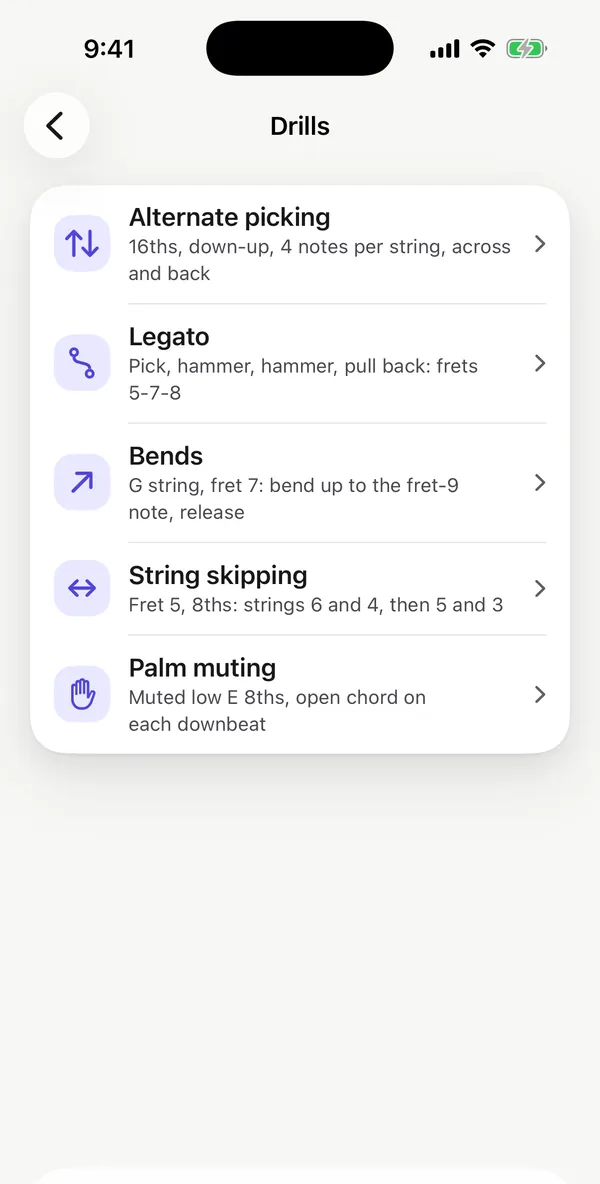
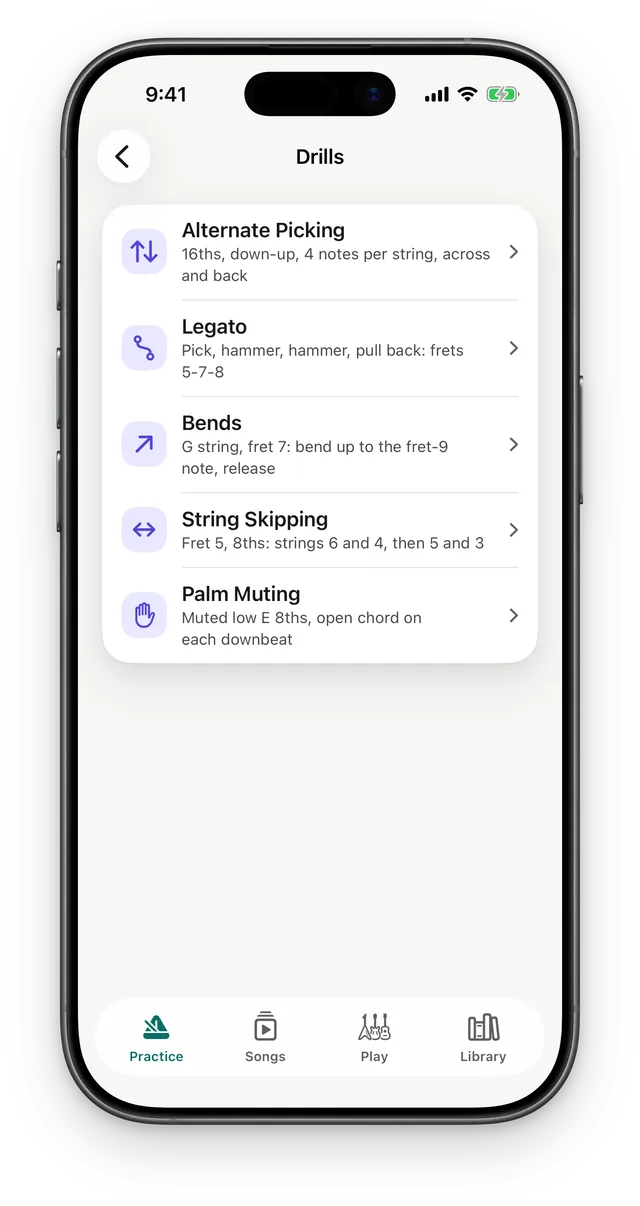
Screenshots in a real iPhone frame: fresh captures, bezel and shadow baked in
The shots now come from gtr-tone-app's tools/site-shots.sh (headless simulator capture plus
Apple's iPhone 17 bezel), 640w and 1280w WebP with srcset. Drops the CSS phone frame and
fade, How Match works shows the Katana 50 result, alt texts match the new screens, and
make-assets.py keeps only the brand images.

Claude-Session: https://claude.ai/code/session_018UT3pei8Wwk52w3BySMxhU

Changed region(s): [[0.06, 0.0, 0.93, 0.9688], [0.18, 0.125, 0.21, 0.1562]]

diff --git a/index.html b/index.html
@@ -24,7 +24,7 @@
 <link rel="preconnect" href="https://fonts.googleapis.com">
 <link rel="preconnect" href="https://fonts.gstatic.com" crossorigin>
 <link rel="stylesheet" href="https://fonts.googleapis.com/css2?family=Nunito:wght@700;800&display=swap">
-<link rel="stylesheet" href="assets/site.css?v=42f964b2">
+<link rel="stylesheet" href="assets/site.css?v=3058e590">
 <script type="application/ld+json">
 {"@context":"https://schema.org","@type":"SoftwareApplication","name":"ToneHub","operatingSystem":"iOS","applicationCategory":"MusicApplication","description":"A guitar app for iPhone. Get the tone. Learn the song.","url":"https://tonehub.app/","offers":{"@type":"Offer","price":"0","priceCurrency":"USD"}}
 </script>
@@ -64,10 +64,10 @@
       <div class="hero-art">
         <div class="hero-glow" aria-hidden="true"></div>
         <div class="phone front">
-          <img src="assets/shots/songs.webp" width="600" height="1184" alt="The Songs screen in ToneHub: a What's playing? card to listen and match a tone, a search field for songs or YouTube, and songs to start with." fetchpriority="high">
+          <img src="assets/shots/songs.webp?v=b4b6cf88" srcset="assets/shots/songs.webp?v=b4b6cf88 640w, assets/shots/songs@2x.webp?v=b4b6cf88 1280w" sizes="(min-width: 900px) 316px, 58vw" width="640" height="1206" alt="The Songs screen in ToneHub: a What's Playing? card to listen and match a tone, a search field for songs or YouTube, Recent songs with a saved tone, and songs to start with." fetchpriority="high">
         </div>
         <div class="phone back">
-          <img src="assets/shots/result.webp" width="600" height="1184" alt="A match result with Gain, Bass, Mid and Treble settings and a Close match badge.">
+          <img src="assets/shots/result.webp?v=b4b6cf88" srcset="assets/shots/result.webp?v=b4b6cf88 640w, assets/shots/result@2x.webp?v=b4b6cf88 1280w" sizes="(min-width: 900px) 272px, 50vw" width="640" height="1206" alt="A match result for Everlong: Gain 7.5, Bass 6, Mid 4.5 and Treble 6.5, with a Close match badge.">
         </div>
       </div>
     </div>
@@ -87,77 +87,77 @@
       <div class="carousel" role="region" aria-roledescription="carousel" aria-label="ToneHub features">
         <ul class="car-track" tabindex="0" aria-label="Features. Use the arrow keys to move between slides.">
           <li class="slide" id="f-songs" data-group="match" role="group" aria-roledescription="slide" aria-label="1 of 15: What&#39;s playing?">
-            <div class="phone"><img src="assets/shots/songs.webp" width="600" height="1184"  alt="The Songs screen: a What's playing? card to listen and match a tone, a Use a file link, and a search field for songs or YouTube."></div>
+            <div class="phone"><img src="assets/shots/songs.webp?v=b4b6cf88" srcset="assets/shots/songs.webp?v=b4b6cf88 640w, assets/shots/songs@2x.webp?v=b4b6cf88 1280w" sizes="276px" width="640" height="1206"  alt="The Songs screen: a What's Playing? card to listen and match a tone, a search field for songs or YouTube, and Recent songs, one with a saved tone."></div>
             <h3>What's playing?</h3>
             <p>Let it listen, or use a file.</p>
           </li>
           <li class="slide" id="f-listen" data-group="match" role="group" aria-roledescription="slide" aria-label="2 of 15: Just let it listen">
-            <div class="phone"><img src="assets/shots/listen.webp" width="600" height="1184"  alt="The listen screen: play the song on a speaker and hold the phone near it, with a Start listening button."></div>
+            <div class="phone"><img src="assets/shots/listen.webp?v=b4b6cf88" srcset="assets/shots/listen.webp?v=b4b6cf88 640w, assets/shots/listen@2x.webp?v=b4b6cf88 1280w" sizes="276px" width="640" height="1206"  alt="The What's Playing? screen: play the song out loud with the phone near the speaker, a Start listening button and a Use a file link."></div>
             <h3>Just let it listen</h3>
             <p>Hold your phone near the speaker.</p>
           </li>
           <li class="slide" id="f-result" data-group="match" role="group" aria-roledescription="slide" aria-label="3 of 15: Your amp, dialed in">
-            <div class="phone"><img src="assets/shots/result.webp" width="600" height="1184"  alt="A match result: Gain 7.5, Bass 6, Mid 4.5 and Treble 6.5, a Close match badge, Hear it, and What we heard versus Your tone."></div>
+            <div class="phone"><img src="assets/shots/result.webp?v=b4b6cf88" srcset="assets/shots/result.webp?v=b4b6cf88 640w, assets/shots/result@2x.webp?v=b4b6cf88 1280w" sizes="276px" width="640" height="1206"  alt="A match result: Gain 7.5, Bass 6, Mid 4.5 and Treble 6.5, a Close match badge, Hear it, and What we heard versus Your tone."></div>
             <h3>Your amp, dialed in</h3>
             <p>Settings in your amp's own knobs.</p>
           </li>
           <li class="slide" id="f-song" data-group="learn" role="group" aria-roledescription="slide" aria-label="4 of 15: One page per song">
-            <div class="phone"><img src="assets/shots/song.webp" width="600" height="1184"  alt="A song page for Everlong with a preview, Match this song, Practice, and Tuner, Key and Tabs rows."></div>
+            <div class="phone"><img src="assets/shots/song.webp?v=b4b6cf88" srcset="assets/shots/song.webp?v=b4b6cf88 640w, assets/shots/song@2x.webp?v=b4b6cf88 1280w" sizes="276px" width="640" height="1206"  alt="A song page for Everlong with a preview, Match this song, Practice, the saved Main riff tone, and Tuner, Key and Tabs rows."></div>
             <h3>One page per song</h3>
             <p>Tuning, key, tempo and tabs.</p>
           </li>
           <li class="slide" id="f-playalong" data-group="learn" role="group" aria-roledescription="slide" aria-label="5 of 15: Play along, slow it down">
-            <div class="phone"><img src="assets/shots/playalong.webp" width="600" height="1184" loading="lazy" alt="Practice mode with the song's YouTube video, Loop a part, and speed buttons for 0.5×, 0.75× and 1×."></div>
+            <div class="phone"><img src="assets/shots/playalong.webp?v=b4b6cf88" srcset="assets/shots/playalong.webp?v=b4b6cf88 640w, assets/shots/playalong@2x.webp?v=b4b6cf88 1280w" sizes="276px" width="640" height="1206" loading="lazy" alt="Practice mode with the song's YouTube video, your saved tone, Loop a part, and speed buttons for 0.5×, 0.75× and 1×."></div>
             <h3>Play along, slow it down</h3>
             <p>Loop a part at 0.5× or 0.75×.</p>
           </li>
           <li class="slide" id="f-tabs" data-group="learn" role="group" aria-roledescription="slide" aria-label="6 of 15: Tabs in one tap">
-            <div class="phone"><img src="assets/shots/tabs.webp" width="600" height="1184" loading="lazy" alt="The Tabs sheet with Songsterr, Ultimate Guitar and a YouTube guitar lesson."></div>
+            <div class="phone"><img src="assets/shots/tabs.webp?v=b4b6cf88" srcset="assets/shots/tabs.webp?v=b4b6cf88 640w, assets/shots/tabs@2x.webp?v=b4b6cf88 1280w" sizes="276px" width="640" height="1206" loading="lazy" alt="The Tabs sheet with Songsterr, Ultimate Guitar and a YouTube guitar lesson."></div>
             <h3>Tabs in one tap</h3>
             <p>Songsterr, Ultimate Guitar and lessons.</p>
           </li>
           <li class="slide" id="f-play" data-group="play" role="group" aria-roledescription="slide" aria-label="7 of 15: Plug in and play">
-            <div class="phone"><img src="assets/shots/play.webp" width="600" height="1184" loading="lazy" alt="The Play screen: ToneHub's amp set to Clean with Gain, Bass, Mid and Treble knobs, plus Tuner and Effects."></div>
+            <div class="phone"><img src="assets/shots/play.webp?v=b4b6cf88" srcset="assets/shots/play.webp?v=b4b6cf88 640w, assets/shots/play@2x.webp?v=b4b6cf88 1280w" sizes="276px" width="640" height="1206" loading="lazy" alt="The Play screen: ToneHub's amp set to Clean with Gain, Bass, Mid and Treble knobs, plus Tuner and Effects."></div>
             <h3>Plug in and play</h3>
             <p>A real amp, right on your iPhone.</p>
           </li>
           <li class="slide" id="f-effects" data-group="play" role="group" aria-roledescription="slide" aria-label="8 of 15: A full pedalboard">
-            <div class="phone"><img src="assets/shots/effects.webp" width="600" height="1184" loading="lazy" alt="The Effects screen with presets on top and Compressor and Chorus switched on, each with its own knobs."></div>
+            <div class="phone"><img src="assets/shots/effects.webp?v=b4b6cf88" srcset="assets/shots/effects.webp?v=b4b6cf88 640w, assets/shots/effects@2x.webp?v=b4b6cf88 1280w" sizes="276px" width="640" height="1206" loading="lazy" alt="The Effects screen with presets on top and Compressor and Chorus switched on, each with its own knobs."></div>
             <h3>A full pedalboard</h3>
             <p>Compressor, drive, chorus, delay, reverb.</p>
           </li>
           <li class="slide" id="f-tuner" data-group="practice" role="group" aria-roledescription="slide" aria-label="9 of 15: Tune up fast">
-            <div class="phone"><img src="assets/shots/tuner.webp" width="600" height="1184" loading="lazy" alt="The tuner in standard tuning, with Capo and Strobe options, a needle gauge and the six strings."></div>
+            <div class="phone"><img src="assets/shots/tuner.webp?v=b4b6cf88" srcset="assets/shots/tuner.webp?v=b4b6cf88 640w, assets/shots/tuner@2x.webp?v=b4b6cf88 1280w" sizes="276px" width="640" height="1206" loading="lazy" alt="The tuner in standard tuning, with Capo and Strobe options, a needle gauge and the six strings."></div>
             <h3>Tune up fast</h3>
             <p>Strobe, capo and alternate tunings.</p>
           </li>
           <li class="slide" id="f-metronome" data-group="practice" role="group" aria-roledescription="slide" aria-label="10 of 15: Keep perfect time">
-            <div class="phone"><img src="assets/shots/metronome.webp" width="600" height="1184" loading="lazy" alt="The metronome at 120 BPM with four beats, Tap tempo and a Start button."></div>
+            <div class="phone"><img src="assets/shots/metronome.webp?v=b4b6cf88" srcset="assets/shots/metronome.webp?v=b4b6cf88 640w, assets/shots/metronome@2x.webp?v=b4b6cf88 1280w" sizes="276px" width="640" height="1206" loading="lazy" alt="The metronome at 120 BPM with four beats, Tap tempo and a Start button."></div>
             <h3>Keep perfect time</h3>
             <p>Tap tempo and accents.</p>
           </li>
           <li class="slide" id="f-looper" data-group="practice" role="group" aria-roledescription="slide" aria-label="11 of 15: Loop and layer">
-            <div class="phone"><img src="assets/shots/looper.webp" width="600" height="1184" loading="lazy" alt="The Looper: Make a loop, a record button, and a Free or Bars loop length."></div>
+            <div class="phone"><img src="assets/shots/looper.webp?v=b4b6cf88" srcset="assets/shots/looper.webp?v=b4b6cf88 640w, assets/shots/looper@2x.webp?v=b4b6cf88 1280w" sizes="276px" width="640" height="1206" loading="lazy" alt="The Looper: Make a loop, a record button, and a Free or Bars loop length."></div>
             <h3>Loop and layer</h3>
             <p>Record a few bars, play over them.</p>
           </li>
           <li class="slide" id="f-recorder" data-group="practice" role="group" aria-roledescription="slide" aria-label="12 of 15: Record your takes">
-            <div class="phone"><img src="assets/shots/recorder.webp" width="600" height="1184" loading="lazy" alt="The Recorder with a Plug in to record card and a Connect button."></div>
+            <div class="phone"><img src="assets/shots/recorder.webp?v=b4b6cf88" srcset="assets/shots/recorder.webp?v=b4b6cf88 640w, assets/shots/recorder@2x.webp?v=b4b6cf88 1280w" sizes="276px" width="640" height="1206" loading="lazy" alt="The Recorder with a Plug in to record card and a Connect button."></div>
             <h3>Record your takes</h3>
             <p>Every idea, saved.</p>
           </li>
           <li class="slide" id="f-fretboard" data-group="practice" role="group" aria-roledescription="slide" aria-label="13 of 15: Learn the fretboard">
-            <div class="phone"><img src="assets/shots/fretboard.webp" width="600" height="1184" loading="lazy" alt="The Fretboard in A minor pentatonic, position 1, with notes on the neck and Listen with the mic."></div>
+            <div class="phone"><img src="assets/shots/fretboard.webp?v=b4b6cf88" srcset="assets/shots/fretboard.webp?v=b4b6cf88 640w, assets/shots/fretboard@2x.webp?v=b4b6cf88 1280w" sizes="276px" width="640" height="1206" loading="lazy" alt="The Fretboard in A minor pentatonic, position 1, with notes on the neck and Listen with the mic."></div>
             <h3>Learn the fretboard</h3>
             <p>Scales and shapes, all up the neck.</p>
           </li>
           <li class="slide" id="f-ear" data-group="practice" role="group" aria-roledescription="slide" aria-label="14 of 15: Train your ear">
-            <div class="phone"><img src="assets/shots/ear.webp" width="600" height="1184" loading="lazy" alt="Ear training on Intervals: a Play button and answers Major 3rd, 4th, 5th and Octave."></div>
+            <div class="phone"><img src="assets/shots/ear.webp?v=b4b6cf88" srcset="assets/shots/ear.webp?v=b4b6cf88 640w, assets/shots/ear@2x.webp?v=b4b6cf88 1280w" sizes="276px" width="640" height="1206" loading="lazy" alt="Ear training on Intervals: a Play button and answers Major 3rd, 4th, 5th and Octave."></div>
             <h3>Train your ear</h3>
             <p>Intervals, chords and keys.</p>
           </li>
           <li class="slide" id="f-drills" data-group="practice" role="group" aria-roledescription="slide" aria-label="15 of 15: Technique drills">
-            <div class="phone"><img src="assets/shots/drills.webp" width="600" height="1184" loading="lazy" alt="The Drills list: Alternate picking, Legato, Bends, String skipping and Palm muting."></div>
+            <div class="phone"><img src="assets/shots/drills.webp?v=b4b6cf88" srcset="assets/shots/drills.webp?v=b4b6cf88 640w, assets/shots/drills@2x.webp?v=b4b6cf88 1280w" sizes="276px" width="640" height="1206" loading="lazy" alt="The Drills list: Alternate picking, Legato, Bends, String skipping and Palm muting."></div>
             <h3>Technique drills</h3>
             <p>Picking, legato, bends and more.</p>
           </li>
@@ -200,7 +200,7 @@
         <div class="how-art">
           <div class="hero-glow" aria-hidden="true"></div>
           <div class="phone">
-            <img src="assets/shots/result.webp" width="600" height="1184" loading="lazy" alt="A match result for Everlong: Gain 7.5, Bass 6, Mid 4.5 and Treble 6.5 with a Close match badge.">
+            <img src="assets/shots/result-amp.webp?v=b4b6cf88" srcset="assets/shots/result-amp.webp?v=b4b6cf88 640w, assets/shots/result-amp@2x.webp?v=b4b6cf88 1280w" sizes="(min-width: 900px) 306px, 70vw" width="640" height="1206" loading="lazy" alt="A match result for Everlong on a Katana 50: Amp Type Brown, Gain 3.5, Bass 6, Middle 4.5 and Treble 7, with suggested effects.">
           </div>
         </div>
       </div>

diff --git a/assets/site.css b/assets/site.css
@@ -105,29 +105,21 @@ p { text-wrap: pretty; }
 .free-badge svg { width: 18px; height: 18px; flex: none; }
 .cta-row { display: flex; flex-wrap: wrap; gap: 12px; align-items: center; }
 .hero-art { position: relative; display: flex; justify-content: center; gap: 0; padding: 8px 0 24px; }
-.hero-art .phone { width: min(54vw, 280px); flex: none; }
-.hero-art .phone.back { width: min(46vw, 240px); margin-left: -10vw; margin-top: 56px; z-index: 0; }
+.hero-art .phone { width: min(58vw, 306px); flex: none; }
+.hero-art .phone.back { width: min(50vw, 262px); margin-left: -18vw; margin-top: 56px; z-index: 0; }
 .hero-art .phone.front { z-index: 1; }
 .hero-glow { position: absolute; inset: 10% 0 0 0; background: radial-gradient(closest-side, color-mix(in srgb, var(--fill) 22%, transparent), transparent); filter: blur(10px); z-index: -1; }
 @media (min-width: 900px) {
   .hero { padding: 72px 0 48px; }
   .hero .wrap { grid-template-columns: minmax(0,1.05fr) minmax(0,1fr); gap: 48px; }
-  .hero-art .phone { width: 290px; }
-  .hero-art .phone.back { width: 250px; margin-left: -40px; }
+  .hero-art .phone { width: 316px; }
+  .hero-art .phone.back { width: 272px; margin-left: -88px; }
 }
 
-/* Phone frame around real screenshots */
-.phone {
-  position: relative; border-radius: 40px; overflow: hidden; background: var(--surface);
-  box-shadow: 0 0 0 1px var(--phone-ring), var(--shadow-lg);
-  aspect-ratio: 600 / 1184;
-}
-.phone img { width: 100%; height: 100%; object-fit: cover; object-position: top; }
-.phone { --shot-bg: #F7F7F5; background: var(--shot-bg); }
-.phone::after { /* fade where the screenshot is cropped */
-  content: ""; position: absolute; left: 0; right: 0; bottom: 0; height: 16%;
-  background: linear-gradient(to bottom, transparent, var(--shot-bg) 90%); pointer-events: none;
-}
+/* Screenshots: each image is the whole device (Apple's iPhone bezel) with its own soft shadow,
+   on a transparent background; the device fills about 92% of the image width. */
+.phone { position: relative; aspect-ratio: 640 / 1206; }
+.phone img { display: block; width: 100%; height: auto; }
 
 /* Sections */
 section { padding: 64px 0; }
@@ -173,8 +165,8 @@ section { padding: 64px 0; }
 .car-track::-webkit-scrollbar { display: none; }
 .car-track:focus-visible { outline-offset: -3px; border-radius: var(--radius-sm); }
 .slide { flex: none; width: calc((100% - (var(--per) - 1) * var(--gap)) / var(--per)); scroll-snap-align: start; text-align: center; }
-.slide .phone { border-radius: 34px; width: 100%; max-width: 252px; margin: 0 auto; }
-.slide h3 { font-size: 19px; font-weight: 700; margin: 18px 0 4px; }
+.slide .phone { width: 100%; max-width: 276px; margin: 0 auto; }
+.slide h3 { font-size: 19px; font-weight: 700; margin: 2px 0 4px; }
 .slide p { margin: 0; color: var(--text2); font-size: 15px; line-height: 1.45; }
 .car-nav { display: flex; align-items: center; justify-content: center; gap: 16px; }
 .car-dots { display: flex; flex-wrap: wrap; justify-content: center; gap: 0; }
@@ -211,11 +203,11 @@ section { padding: 64px 0; }
 .steps .num { font: 700 13px/1 var(--font); color: var(--text3); }
 .steps p { margin: 2px 0 0; color: var(--text2); font-size: 15px; line-height: 1.45; }
 .how-art { position: relative; display: flex; justify-content: center; }
-.how-art .phone { width: min(64vw, 260px); }
+.how-art .phone { width: min(70vw, 284px); }
 .how-art .hero-glow { inset: 8% -10% 0; }
 @media (min-width: 900px) {
   .how-grid { grid-template-columns: minmax(0,1.1fr) minmax(0,1fr); gap: 48px; }
-  .how-art .phone { width: 280px; }
+  .how-art .phone { width: 306px; }
 }
 
 /* Free band */

diff --git a/tools/make-assets.py b/tools/make-assets.py
@@ -1,26 +1,13 @@
-# Regenerates assets/shots and assets/brand (icons, favicons, OG image) from the app repo.
-# Screenshots: light-mode captures from the current app build (iPhone 17 Pro simulator, headless simctl,
-# `-hasCompletedOnboarding YES -screen=<name>`, see app/GtrTone/Screens/Root/DebugLaunch.swift),
-# saved as app/build/shots-site/<screen>.png in gtr-tone-app.
+# Regenerates assets/brand (icons, favicons, OG image) from the app repo.
+# Screenshots (assets/shots) are made by gtr-tone-app's tools/site-shots.sh: it builds the app,
+# captures each screen on a headless iPhone 17 Pro simulator into app/build/shots-site/<screen>.png,
+# and frames them in an iPhone bezel (tools/site-shots/frame.py). The OG image below reuses songs.png.
 # To swap the logo: replace design/icon/tonehub-icon-source.jpg in gtr-tone-app (square, 1024px+) and run: python3 tools/make-assets.py
-import os, glob
+import os
 from PIL import Image, ImageDraw, ImageFont, ImageFilter
 A=os.path.expanduser('~/Developer/gtr-tone-app/')
 S=A+'app/build/shots-site/'
 D=os.path.expanduser('~/Developer/tonehub-site/assets/')
-# site name -> -screen= capture
-shots={
- 'songs':'songs','listen':'listen','result':'result-preview','song':'song','playalong':'practicesong',
- 'tabs':'song-tabs','play':'play','effects':'effects-on','tuner':'tuner','metronome':'metronome',
- 'looper':'looper','recorder':'recorder','fretboard':'fretboard-practice','ear':'ear','drills':'drills','plan':'plan',
-}
-for old in glob.glob(D+'shots/*.webp'): os.remove(old)
-CROP=2380  # drop the tab bar
-for k,p in shots.items():
-    im=Image.open(S+p+'.png').convert('RGB')
-    w,h=im.size; c=round(CROP*w/1206)
-    im=im.crop((0,0,w,c)).resize((600,round(CROP*600/1206)),Image.LANCZOS)
-    im.save(D+'shots/'+k+'.webp','WEBP',quality=80,method=6)
 src=Image.open(A+'design/icon/tonehub-icon-source.jpg').convert('RGB')
 def rounded(im,r):
     m=Image.new('L',im.size,0); ImageDraw.Draw(m).rounded_rectangle((0,0,im.size[0]-1,im.size[1]-1),r,fill=255)
